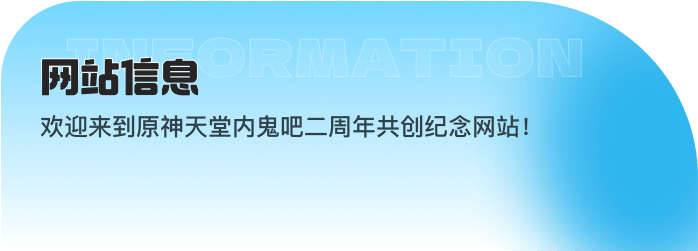
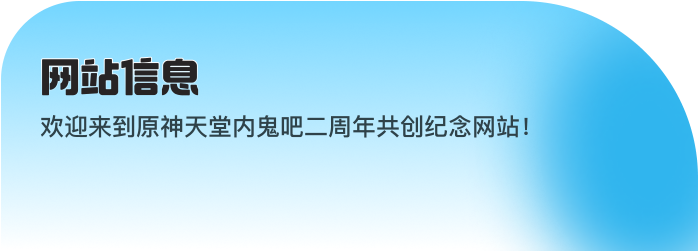
fix:修改bug

diff --git a/src/components/ModalDialog.vue b/src/components/ModalDialog.vue
@@ -146,7 +146,7 @@ const modalClass = computed(() => {
 
 .modal-content {
   position: relative;
-  background: url('/assets/backgrounds/popupBg-big.png')no-repeat;
+  background: url('/assets/backgrounds/popupBg-big.png') no-repeat;
   border-radius: 15px;
   max-width: 700px;
   width: 100%;
@@ -316,14 +316,14 @@ const modalClass = computed(() => {
 @media (max-width: 768px) {
   .user-img {
     position: absolute;
-    top: -73px;
-    right: -73px;
-    height: 107px;
+    top: -11%;
+    right: -15%;
+    height: 117px;
   }
 
   .modal-content {
     background: url('/assets/backgrounds/popupBg-big.png') no-repeat;
-    background-size: cover;
+    background-size: contain;
   }
 
   /* PC端显示，移动端隐藏 */
@@ -345,7 +345,7 @@ const modalClass = computed(() => {
   .modal-info {
     margin-top: 78px;
     border-radius: 28px;
-    padding: 32px 40px 57px 40px;
+    padding: 17px 17px 28px 19px;
   }
 
   .modal-stats {
@@ -357,21 +357,22 @@ const modalClass = computed(() => {
     border-radius: 17px;
   }
 
-  .modal-text {
-    line-height: 1.5;
-    font-size: 13px;
-    color: #333;
-  }
-
-  .stat-label {
-    color: #627982;
-    white-space: nowrap;
-  }
-
-  .stat-value {
-    color: #1C2B31;
-    font-weight: bold;
-  }
+    .modal-text {
+      line-height: 1.5;
+      font-size: 13px;
+      color: #333;
+    }
+  
+    .stat-label {
+      color: #627982;
+      font-size: 12px;
+    }
+  
+    .stat-value {
+      color: #1C2B31;
+      font-weight: bold;
+      font-size: 12px;
+    }
 
   .close-btn {
     cursor: pointer;
@@ -387,8 +388,9 @@ const modalClass = computed(() => {
 @media (max-width: 480px) {
   .user-img {
     position: absolute;
-    top: -18px;
-    right: -25px;
+    top: -11%;
+    right: -15%;
+    height: 117px;
   }
 
   .modal-content {

diff --git a/src/components/MainArea.vue b/src/components/MainArea.vue
@@ -38,19 +38,12 @@
     <div class="content-area">
       <!-- 背景图片轮播 - 覆盖整个content-area -->
       <div class="background-carousel">
-        <el-carousel 
-          :trigger="windowWidth <= 768 ? 'click' : 'hover'" 
-          arrow="always" 
-          height="100%" 
-          :autoplay="false" 
-          indicator-position="none"
-          :touch="true"
-          @change="handleCarouselChange">
+        <el-carousel :trigger="windowWidth <= 768 ? 'click' : 'hover'"
+          :arrow="selectedTieba?.backgroundImages?.length > 1 ? 'always' : 'never'" height="100%" :autoplay="false"
+          indicator-position="none" :touch="true" @change="handleCarouselChange">
           <el-carousel-item v-for="(image, index) in selectedTieba.backgroundImages" indicator-position="none"
             :key="index">
-            <div class="background-content">
-              <img :src="image" alt="" class="carousel-image" />
-            </div>
+            <img :src="image" alt="" class="carousel-image" />
           </el-carousel-item>
         </el-carousel>
       </div>
@@ -785,9 +778,6 @@ function goToTieba() {
 
 
 .danmu-text {
-  background: rgba(0, 0, 0, 0.5)!important;
-  padding: 10px 20px;
-  border-radius: 100px;
   pointer-events: auto;
 }
 
@@ -896,7 +886,7 @@ function goToTieba() {
 
 :deep(.el-carousel--horizontal,
   .el-carousel--vertical) {
-  padding: 20px 95px;
+  padding: 0 75px;
 }
 
 /* 显示控制样式 */

diff --git a/src/components/CommentSection.vue b/src/components/CommentSection.vue
@@ -2,9 +2,12 @@
   <div class="comment-area">
     <div class="comment-section">
       <div class="comment-input-area">
-        <el-input :value="newComment" @input="$emit('update:newComment', $event.target.value)" placeholder="输入你的留言..."
+        <el-input 
+          :model-value="newComment" 
+          @update:model-value="$emit('update:newComment', $event)"
+          placeholder="输入你的留言..."
           @keyup.enter="handleSubmitComment">
-          <template #append> <span @click="handleSubmitComment">提交</span> </template>
+          <template #append> <span @click="handleSubmitComment" style="cursor: pointer;">提交</span> </template>
         </el-input>
       </div>
       <div class="comments-container">